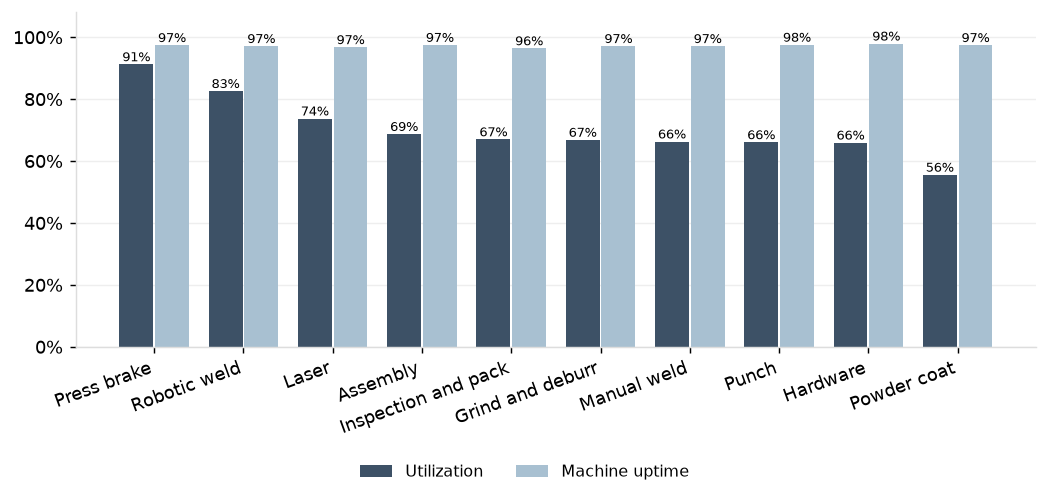
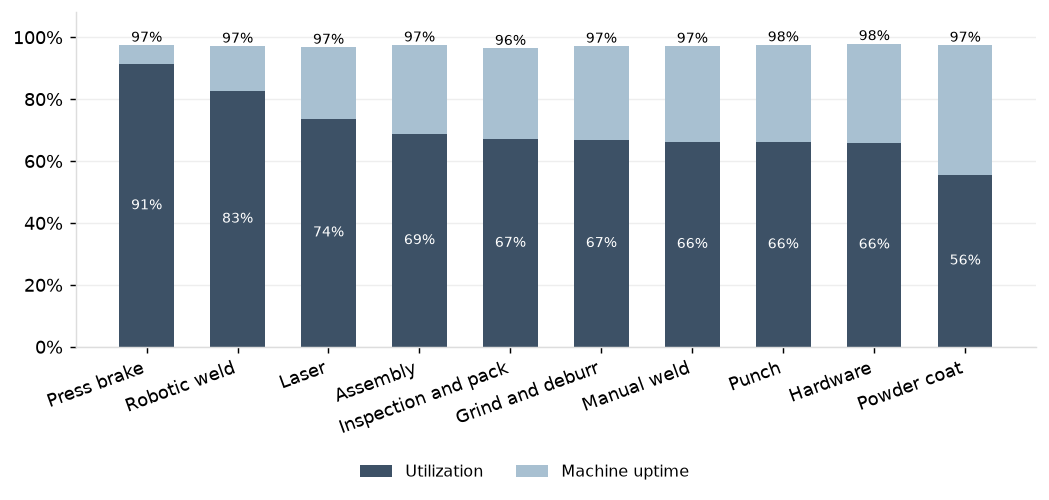
Capacity report: Section 1 wording, utilization within uptime as one column, queue time chart back in Section 1

diff --git a/docs/reports/capacity_constraints_and_setups.html b/docs/reports/capacity_constraints_and_setups.html
@@ -57,21 +57,21 @@ nav.toc a.sub { font-size: 12px; padding-left: 22px; }
 <body><div class="page-header"><h1>Report: Capacity, Constraints and Setups</h1><div class="sub">Created by Brian Davis, 2026</div></div>
 <div class="layout"><nav class="toc"><div class="toc-title">Contents</div><a href="#f1">1. Capacity Across the Shop</a><a href="#f2">2. Load and Queue Time</a><a href="#f3">3. Brake Hours: Setups, Standards and the Peak</a><a href="#appendix">Appendix</a></nav>
 <main class="content"><h2 id='f1'>1. Capacity Across the Shop</h2>
-<p>The shop's floor consists of 25 machines across ten work centers. The daily floor activity (operations per day and hours per operation) in routing order is shown below.</p>
+<p>The shop's floor consists of 25 machines across ten work centers. The press brakes are the busiest, with 16,268 machine hours in 2025 (36% of total). Machine hours break into operations per day and hours per operation, shown in routing order below.</p>
 <div class='chart-title'>Daily Floor Activity by Work Center, 2025</div><img alt="Daily Floor Activity by Work Center, 2025" src="../figures/capacity_floor_activity.png?v=b2993651">
-<p>The press brakes consistently run at the highest utilization of any work center (average of 83% 2023-2025), followed by the robotic weld cell (71%). Released work grew 20% from 2023 to 2025 (4,315 to 5,157 jobs a year; brake standard hours up 21%) across the same set of machines and shifts, resulting in average machine utilization increasing 14 points over the past three years, from 62% in 2023 to 75% in 2025.</p>
+<p>The press brakes consistently run at the highest utilization of any work center (average of 83% 2023-2025), followed by the robotic weld cell (71%). Across all work centers, average utilization increased from 62% in 2023 to 75% in 2025 as released work grew 20% (4,315 to 5,157 jobs a year; brake standard hours up 21%) across the same set of machines and shifts.</p>
 <div class='chart-title'>Average monthly utilization by work center, 2023 to 2025</div><img alt="Average monthly utilization by work center, 2023 to 2025" src="../figures/capacity_utilization_trend.png?v=d867d6bd">
 <h3 id='f1_1'>Capacity Constraints</h3>
 <p>In 2025, the press brakes ran at 91% average utilization and the robotic weld cell at 83%. Against their 97% uptime, the average production capacity buffer was only 6 points for the press brakes and 14 points for the robotic weld cell, the smallest of all work centers. See Appendix Table <a href='#t1'>1</a> for additional detail.</p>
-<div class='chart-title'>Utilization and Machine Uptime by Work Center</div><img alt="Utilization and Machine Uptime by Work Center" src="../figures/constraint_utilization_uptime.png?v=398f0550">
-<p>With so little buffer, an ordinary heavy week can take the brakes and the weld cell to maximum utilization: they ran at or above 95% utilization in 46% and 38% of weeks in 2025, far more often than any other work center. See Appendix Table <a href='#t2'>2</a> for additional detail.</p>
+<div class='chart-title'>Utilization and Machine Uptime by Work Center</div><img alt="Utilization and Machine Uptime by Work Center" src="../figures/constraint_utilization_uptime.png?v=348d825a">
+<p>With so little buffer, an ordinary heavy week can take the brakes and the weld cell to maximum utilization: they ran at or above 95% utilization in 46% and 38% of weeks in 2025, far more often than any other work center. Average queue time rises sharply when a work center is operating near maximum utilization. This is explored in more detail in Section 2. See Appendix Table <a href='#t2'>2</a> for additional detail.</p>
 <div class='chart-title'>Share of weeks at or above 95% utilization, 2025</div><img alt="Share of weeks at or above 95% utilization, 2025" src="../figures/capacity_hot_week_share.png?v=5980e1e8">
-<p>Throughout 2025, jobs spent 36,318 days waiting in queue at a work center (first operations at the lasers and the punch aside). The press brake station accounted for 56% of those days, which is a function of its consistently high utilization, as well as its volume of operations. There were 5,692 press brake operations in 2025, 20% of total across all work centers. The robotic weld cell, which saw similar high utilization and queue times as the press brakes, accounted for less than 5% of queue days, because only 423 operations, 1.5% of the total, passed through it.</p>
+<div class='chart-title'>Queue Time in Weeks at or Above 95% Utilization vs. Other Weeks, 2023 to 2025</div><img alt="Queue Time in Weeks at or Above 95% Utilization vs. Other Weeks, 2023 to 2025" src="../figures/capacity_queue_in_hot_weeks_year.png?v=3f459c1b">
+<p>Throughout 2025, jobs spent 36,318 days waiting in queue at a work center (excluding first operations at the lasers and the punch). The press brake station accounted for 56% of those days, which is a function of its consistently high utilization, as well as its volume of operations. There were 5,692 press brake operations in 2025 (20% of total). The robotic weld cell, which also ran at high utilization, accounted for less than 5% of queue days, because only 423 operations (1.5% of total) passed through it.</p>
 <div class='chart-title'>Share of queue days by work center, 2025</div><img alt="Share of queue days by work center, 2025" src="../figures/capacity_share_of_queue_days.png?v=c9f86cef">
-<p>The press brakes are therefore the shop's primary constraint on three counts: the highest utilization with the least buffer, the most weeks spent at maximum utilization, and more than half of all queue days. The robotic weld cell shares the first two and constrains the enclosure work that crosses it. The next section examines these stations in more detail.</p>
+<p>The press brakes are therefore the shop's primary constraint on three counts: the highest utilization with the least buffer, the most weeks spent at maximum utilization, and more than half of all queue days. The robotic weld cell shares the first two and constrains the enclosure work that crosses it. These stations are examined in more detail throughout this report.</p>
 <h2 id='f2'>2. Load and Queue Time</h2>
 <p>At each station, average queue time was sharply higher when it was operating near maximum utilization compared to the other weeks of the year. The gap is smallest at the press brakes (2.4 days against 1.7, 1.4x) not because their wait is least sensitive to load but because their other weeks are also heavily loaded, so the comparison is narrower than other work centers. This section lays out the sensitivity of queue time against load at the press brakes and robotic weld stations.</p>
-<div class='chart-title'>Queue Time in Weeks at or Above 95% Utilization vs. Other Weeks, 2023 to 2025</div><img alt="Queue Time in Weeks at or Above 95% Utilization vs. Other Weeks, 2023 to 2025" src="../figures/capacity_queue_in_hot_weeks_year.png?v=cd2298d2">
 <p><a href='#f1'>Section 1</a> showed that queue time rises when a work center is full and that the press brakes and the robotic weld cell are the two that are full most often and carry the waiting that costs the shop days. This section shows how queue time builds at each as load rises, and what that makes the lever. The curve is the queue time expected at each level of utilization for the number of machines at the work center, fitted on rolling 13-week windows from 2023 to 2025 and drawn only over the range of utilization the work center has run at in those windows; for the brakes the fit explains 45% of the variation in the windowed queue with a rank correlation of 0.88, while a single week's queue carries the backlog of the weeks before it, which is why the fit is made on windows rather than weeks.</p>
 <h3 id='f2_1'>The press brakes</h3>
 <p>On the fitted curve the brake queue time is 0.67 days per operation at 75% utilization, 1.51 at 85%, 2.61 at 90% and 3.44 at 92%; the measured queue time is 3.54 at 91% for the year and 1.81 at 91% in Q2-Q4. Week by week, the brake queue time steps from about 0.5 days below 85% utilization to 2.7 above it and does not settle back. The brake queue time's 90th percentile was 17.1 and 9.1 days in Q1 and Q2 2025 and 2.8 and 3.0 in Q3 and Q4; under 5 days in every quarter is the mark the levers in this report are measured against. See Appendix Tables <a href='#t3'>3</a>, <a href='#t4'>4</a> and <a href='#t5'>5</a> for additional detail.</p>

diff --git a/analytics/reports/capacity_constraints_and_setups.py b/analytics/reports/capacity_constraints_and_setups.py
@@ -155,7 +155,7 @@ def fig_hot_share():
 
 def fig_hot_year():
     """Queue time in the weeks at or above 95% utilization against the other weeks of 2023 to 2025, for the work centers that had one."""
-    d = HALL[HALL["hot_weeks"] > 0]
+    d = HALL[(HALL["hot_weeks"] > 0) & (HALL.index != "hardware")]
     f, ax = fig(h=3.8)
     paired_columns(ax, [WC[w] for w in d.index], list(d["queue_hot"]), list(d["queue_other"]), ("Weeks at or above 95%", "Other weeks"), decimals=2)
     ax.set_ylabel("Queue time in days")
@@ -545,8 +545,10 @@ def build():
     # 1 ── capacity across the shop
     b.append("<h2 id='f1'>1. Capacity Across the Shop</h2>")
     act = ACTIVITY
-    b.append(f"<p>The shop's floor consists of {n0(act['machines'].sum())} machines across ten work centers. The daily floor activity (operations per day and hours "
-             f"per operation) in routing order is shown below.</p>")
+    assert UY["machine"].idxmax() == "press_brake"
+    b.append(f"<p>The shop's floor consists of {n0(act['machines'].sum())} machines across ten work centers. The press brakes are the busiest, with "
+             f"{n0(UY.loc['press_brake', 'machine'])} machine hours in {YEAR} ({P(UY.loc['press_brake', 'machine'] / UY['machine'].sum())} of total). Machine hours "
+             f"break into operations per day and hours per operation, shown in routing order below.</p>")
     b.append(chart(f"Daily Floor Activity by Work Center, {YEAR}", fig_activity()))
     all_years = X["uw"][X["uw"]["week_year"].between(YEAR - 2, YEAR)]
     avg = {w: SC.pooled_utilization(all_years[all_years["work_center"] == w]) for w in UY.index}
@@ -555,11 +557,10 @@ def build():
     rel = q("select year(quarter_start) as y, sum(releases) as releases, sum(brake_std_hours) as brake_hours "
                                            "from marts.mart_releases_by_quarter group by 1 order by 1").set_index("y")
     b.append(f"<p>The press brakes consistently run at the highest utilization of any work center (average of {P(avg['press_brake'])} 2023-2025), followed by the "
-             f"robotic weld cell ({P(avg['robotic_weld'])}). Released work grew {P(rel.loc[YEAR, 'releases'] / rel.loc[YEAR - 2, 'releases'] - 1)} from {YEAR - 2} to "
-             f"{YEAR} ({n0(rel.loc[YEAR - 2, 'releases'])} to {n0(rel.loc[YEAR, 'releases'])} jobs a year; brake standard hours up "
-             f"{P(rel.loc[YEAR, 'brake_hours'] / rel.loc[YEAR - 2, 'brake_hours'] - 1)}) across the same set of machines and shifts, resulting in average machine "
-             f"utilization increasing {(shop[YEAR] - shop[YEAR - 2]) * 100:.0f} points over the past three years, from {P(shop[YEAR - 2])} in {YEAR - 2} to "
-             f"{P(shop[YEAR])} in {YEAR}.</p>")
+             f"robotic weld cell ({P(avg['robotic_weld'])}). Across all work centers, average utilization increased from {P(shop[YEAR - 2])} in {YEAR - 2} to "
+             f"{P(shop[YEAR])} in {YEAR} as released work grew {P(rel.loc[YEAR, 'releases'] / rel.loc[YEAR - 2, 'releases'] - 1)} "
+             f"({n0(rel.loc[YEAR - 2, 'releases'])} to {n0(rel.loc[YEAR, 'releases'])} jobs a year; brake standard hours up "
+             f"{P(rel.loc[YEAR, 'brake_hours'] / rel.loc[YEAR - 2, 'brake_hours'] - 1)}) across the same set of machines and shifts.</p>")
     b.append(chart("Average monthly utilization by work center, 2023 to 2025", fig_utilization_trend()))
 
     b.append("<h3 id='f1_1'>Capacity Constraints</h3>")
@@ -573,21 +574,22 @@ def build():
     hot_share = (HY["hot_weeks"] / HY["weeks"]).sort_values(ascending=False)
     assert list(hot_share.index[:2]) == LEAD_TWO and hot_share.iloc[1] > 1.5 * hot_share.iloc[2]
     b.append(f"<p>With so little buffer, an ordinary heavy week can take the brakes and the weld cell to maximum utilization: they ran at or above 95% utilization in "
-             f"{P(hot_share['press_brake'])} and {P(hot_share['robotic_weld'])} of weeks in {YEAR}, far more often than any other work center. {T.see('hot')}</p>")
+             f"{P(hot_share['press_brake'])} and {P(hot_share['robotic_weld'])} of weeks in {YEAR}, far more often than any other work center. Average queue time rises sharply when a work center is operating near maximum utilization. "
+             f"This is explored in more detail in Section 2. {T.see('hot')}</p>")
     b.append(chart(f"Share of weeks at or above 95% utilization, {YEAR}", fig_hot_share()))
+    b.append(chart("Queue Time in Weeks at or Above 95% Utilization vs. Other Weeks, 2023 to 2025", fig_hot_year()))
     assert QDAYS.index[0] == "press_brake" and QDAYS.loc["robotic_weld", "share_of_queue"] < 0.05 and QDAYS.loc["press_brake", "share_of_queue"] > 0.5
     total_ops = len(ops)
-    b.append(f"<p>Throughout {YEAR}, jobs spent {n0(QDAYS['queue_days'].sum())} days waiting in queue at a work center (first operations at the lasers and the "
-             f"punch aside). The press brake station accounted for {P(QDAYS.loc['press_brake', 'share_of_queue'])} of those days, which is a function of its "
+    b.append(f"<p>Throughout {YEAR}, jobs spent {n0(QDAYS['queue_days'].sum())} days waiting in queue at a work center (excluding first operations at the lasers "
+             f"and the punch). The press brake station accounted for {P(QDAYS.loc['press_brake', 'share_of_queue'])} of those days, which is a function of its "
              f"consistently high utilization, as well as its volume of operations. There were {n0(QDAYS.loc['press_brake', 'operations'])} press brake operations in "
-             f"{YEAR}, {P(QDAYS.loc['press_brake', 'operations'] / total_ops)} of total across all work centers. The robotic weld cell, which saw similar high "
-             f"utilization and queue times as the press brakes, accounted for less than 5% of queue days, because only "
-             f"{n0(QDAYS.loc['robotic_weld', 'operations'])} operations, {pct(QDAYS.loc['robotic_weld', 'operations'] / total_ops)} of the total, passed through "
-             f"it.</p>")
+             f"{YEAR} ({P(QDAYS.loc['press_brake', 'operations'] / total_ops)} of total). The robotic weld cell, which also ran at high utilization, accounted for "
+             f"less than 5% of queue days, because only {n0(QDAYS.loc['robotic_weld', 'operations'])} operations "
+             f"({pct(QDAYS.loc['robotic_weld', 'operations'] / total_ops)} of total) passed through it.</p>")
     b.append(chart(f"Share of queue days by work center, {YEAR}", fig_queue_days()))
     b.append("<p>The press brakes are therefore the shop's primary constraint on three counts: the highest utilization with the least buffer, the most weeks spent at "
              "maximum utilization, and more than half of all queue days. The robotic weld cell shares the first two and constrains the enclosure work that crosses "
-             "it. The next section examines these stations in more detail.</p>")
+             "it. These stations are examined in more detail throughout this report.</p>")
 
     # 2 ── load and queue time
     b.append("<h2 id='f2'>2. Load and Queue Time</h2>")
@@ -604,7 +606,6 @@ def build():
              f"{rise['press_brake']:.1f}x) not because their wait is least sensitive to load but because their other weeks are also heavily loaded, so the comparison "
              f"is narrower than other work centers. This section lays out the sensitivity of queue time against load at the press brakes and robotic "
              f"weld stations.</p>")
-    b.append(chart("Queue Time in Weeks at or Above 95% Utilization vs. Other Weeks, 2023 to 2025", fig_hot_year()))
     b.append(f"<p><a href='#f1'>Section 1</a> showed that queue time rises when a work center is full and that the press brakes and the robotic weld cell are the two "
              f"that are full most often and carry the waiting that costs the shop days. This section shows how queue time builds at each as load rises, and what that "
              f"makes the lever. The curve is the queue time expected at each level of utilization for the number of machines at the work center, fitted on rolling "

diff --git a/analytics/constraint/sections.py b/analytics/constraint/sections.py
@@ -63,14 +63,16 @@ def var(source):
 
 # ── figures ─────────────────────────────────────────────────────────────────
 def fig_util():
+    """Utilization within machine uptime for each work center: one column to the height of uptime, its lower part the utilization."""
     d = UY.sort_values("utilization", ascending=False)
     f, ax = fig(h=3.6)
     x = np.arange(len(d))
-    for dx, col, color, lab in ((-0.2, "utilization", BRAND_BLUE, "Utilization"), (0.2, "uptime", LIGHT_BLUE, "Machine uptime")):
-        v = sig(d[col].to_numpy(dtype=float) * 100)
-        ax.bar(x + dx, v, width=0.38, color=color, label=lab)
-        for xi, vi in zip(x, v):
-            ax.text(xi + dx, vi, f"{vi:.0f}%", ha="center", va="bottom", fontsize=7)
+    u, up = sig(d["utilization"].to_numpy(dtype=float) * 100), sig(d["uptime"].to_numpy(dtype=float) * 100)
+    ax.bar(x, u, width=0.6, color=BRAND_BLUE, label="Utilization")
+    ax.bar(x, up - u, width=0.6, bottom=u, color=LIGHT_BLUE, label="Machine uptime")
+    for xi, ui, pi in zip(x, u, up):
+        ax.text(xi, ui / 2, f"{ui:.0f}%", ha="center", va="center", fontsize=8, color="white")
+        ax.text(xi, pi, f"{pi:.0f}%", ha="center", va="bottom", fontsize=8)
     ax.set_xticks(x)
     ax.set_xticklabels([WC[w] for w in d.index], rotation=20, ha="right")
     ax.set_ylim(0, 108)
